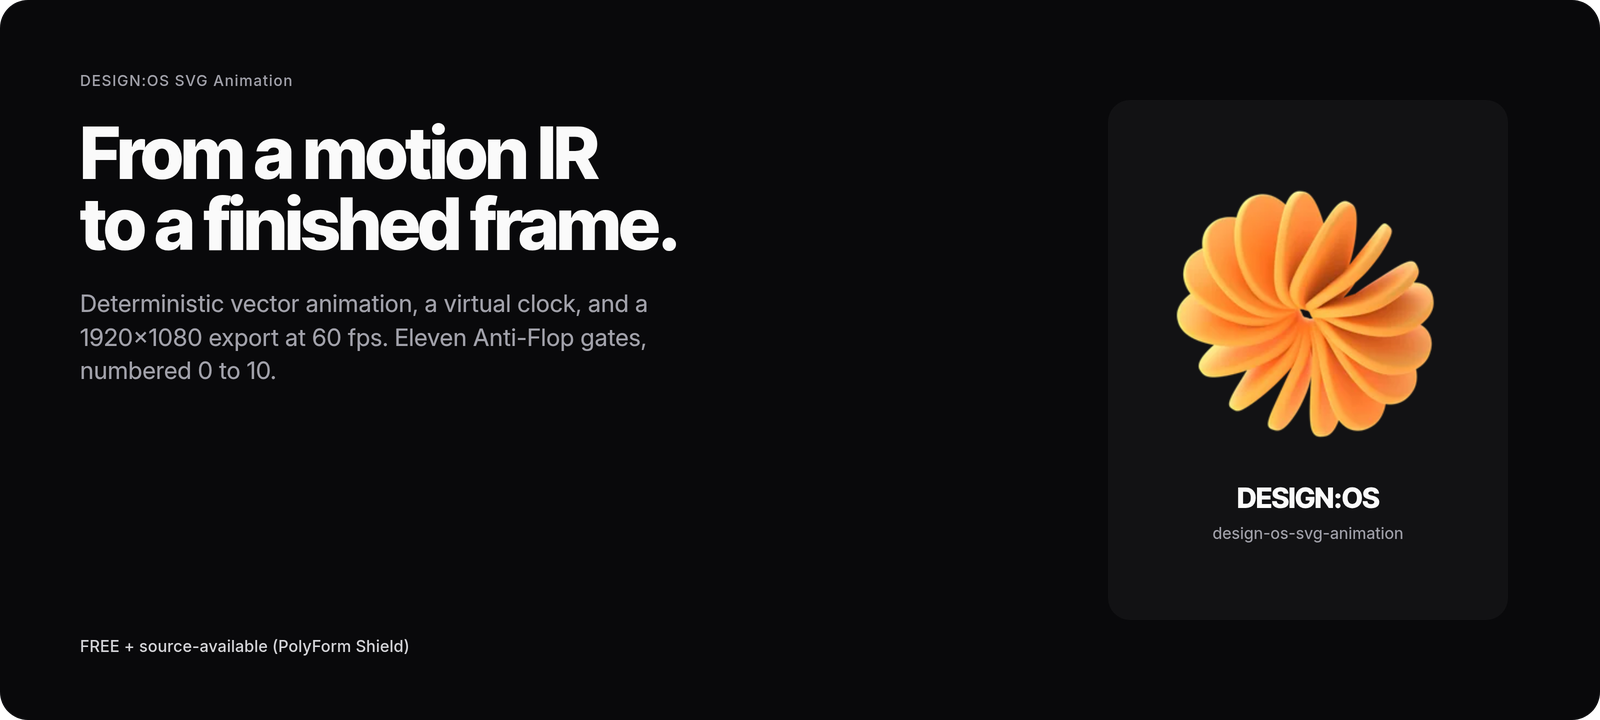
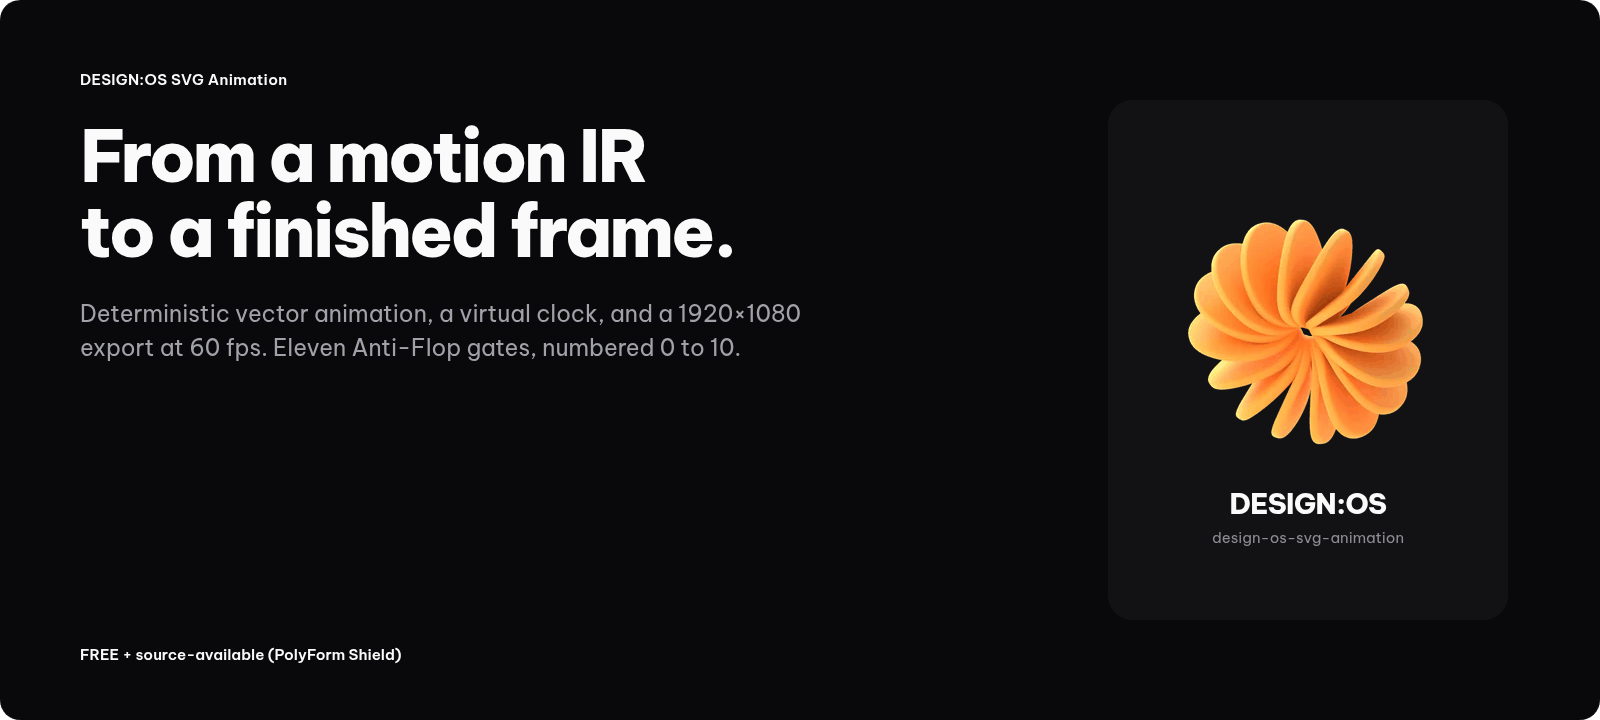
docs: re-render README assets in Be Vietnam Pro

diff --git a/docs/images/readme/PROVENANCE.md b/docs/images/readme/PROVENANCE.md
@@ -4,4 +4,4 @@
 `design-os-svg-animation.webp` is the official hub mark from `/workspace/wt-hub/assets/logos/design-os-svg-animation.webp`, copied as-is. Accent #fca849. The mark itself is not recoloured.
 
 ## Covers, flow diagrams, and social preview
-Family-matched cards, 1600×720 covers, 1600×1000 flow, 1280×640 social. Inter Tight and Inter. Dark #09090b, light #f4f4f5. Footer: FREE + source-available (PolyForm Shield).
+Family-matched cards, 1600×720 covers, 1600×1000 flow, 1280×640 social. Be Vietnam Pro (400, 600, 800), re-rendered on 2026-11-16 to match the DESIGN:OS family font. Dark #09090b, light #f4f4f5. Footer: FREE + source-available (PolyForm Shield).
